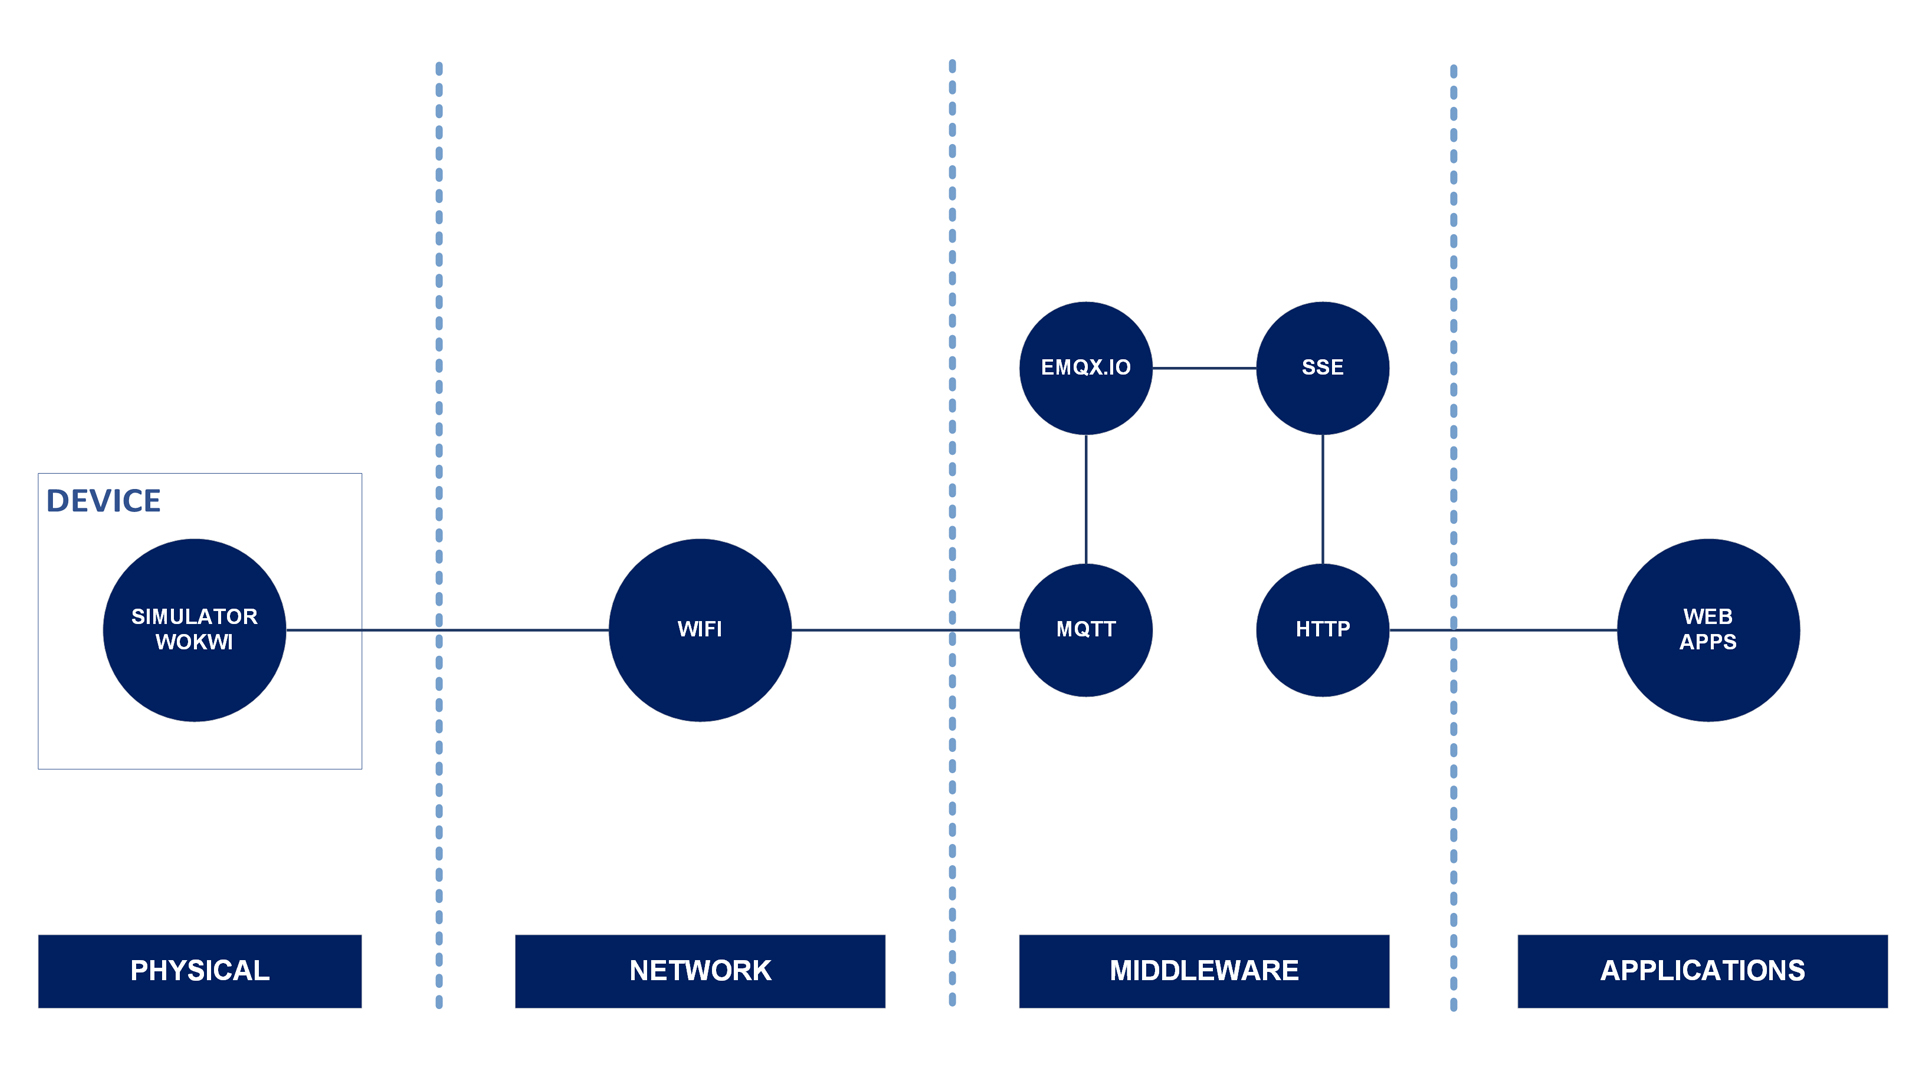
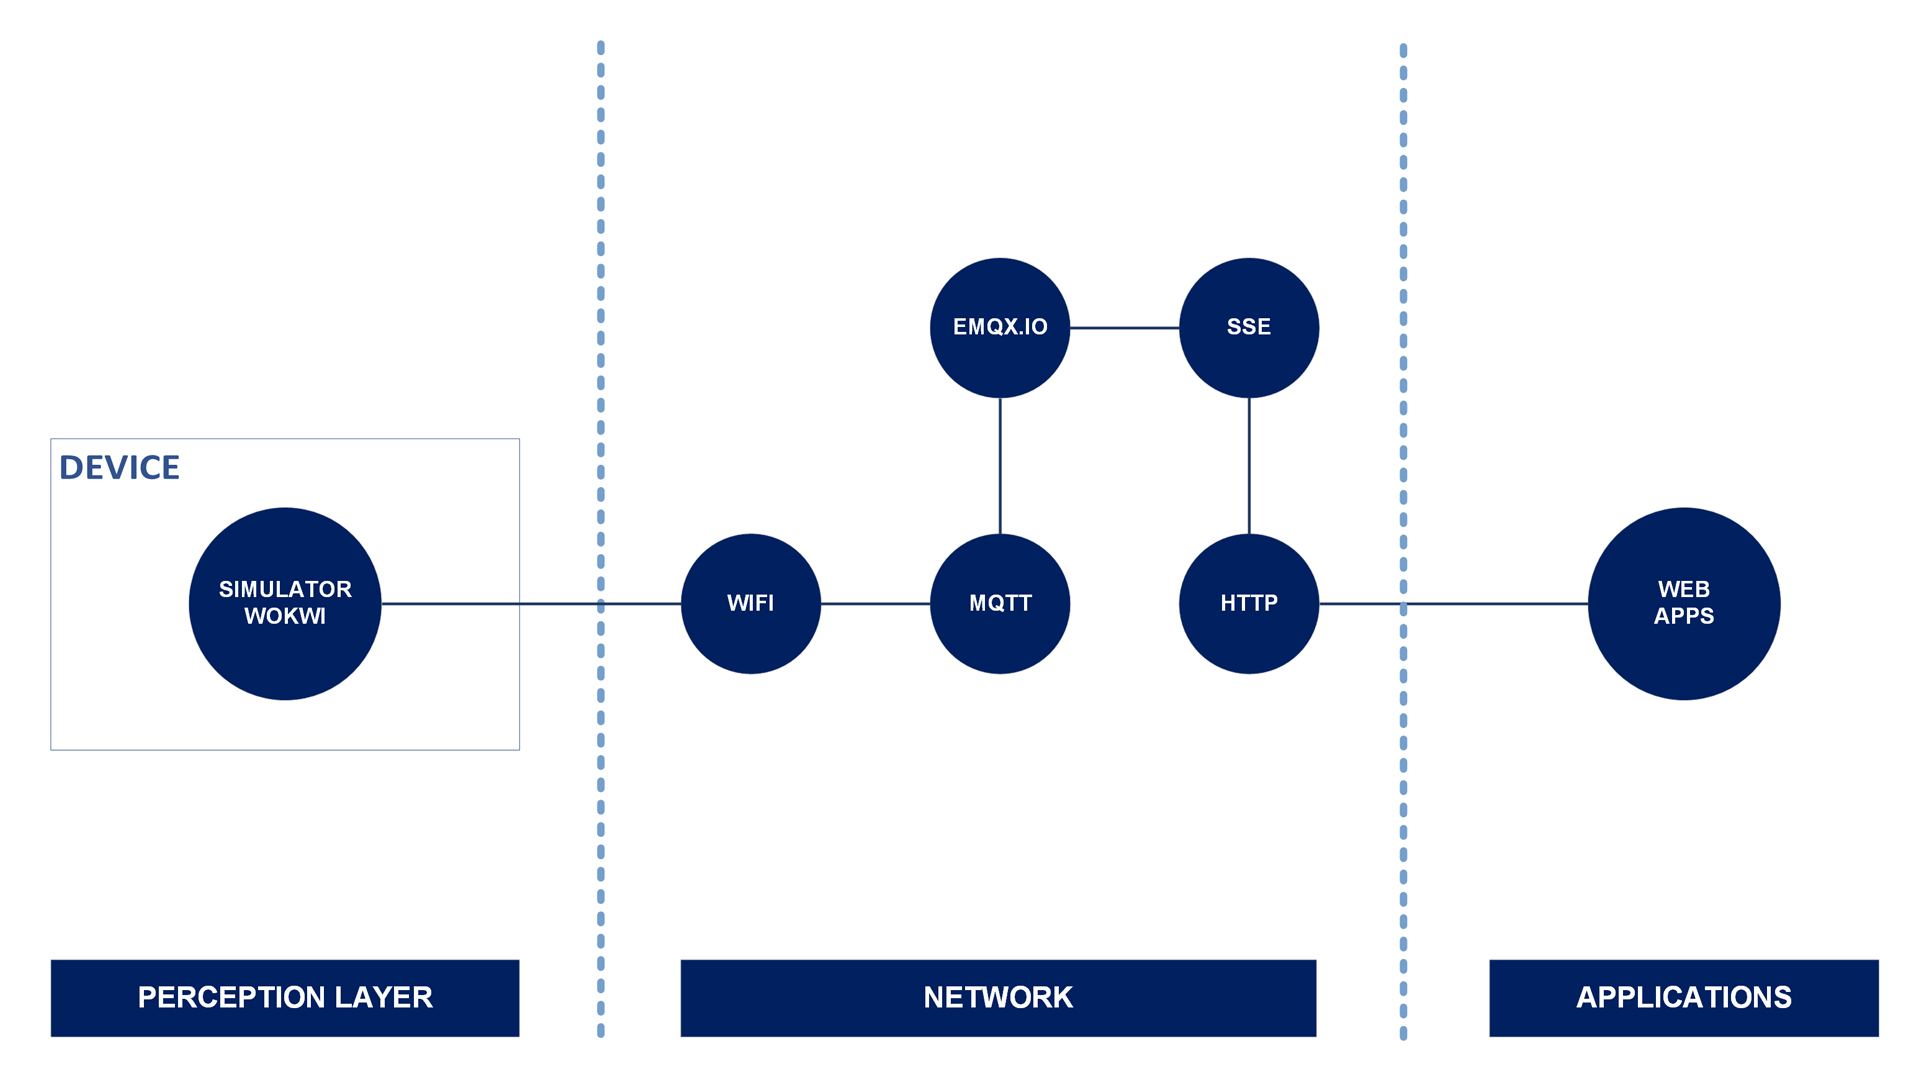
Update: 26/12/2024

diff --git a/README.md b/README.md
@@ -21,7 +21,7 @@ This project has high resource efficiency and performance, including real-time d
 | Application Support | • Wokwi<br>• MQTTX<br>• Node.js |
 | IoT Platform | EMQX Broker |
 | Communications Protocol | • Hypertext Transfer Protocol (HTTP)<br>• Message Queuing Telemetry Transport (MQTT) |
-| IoT Architecture | 4 Layer |
+| IoT Architecture | 3 Layer |
 | Framework | • Bootstrap 5<br>• Express.js<br>• Font-Awesome 6 |
 | Libraries | MQTT.js |
 

diff --git a/BACA.md b/BACA.md
@@ -21,7 +21,7 @@ Proyek ini memiliki efisiensi sumber daya dan kinerja yang tinggi, termasuk pemr
 | Dukungan Aplikasi | • Wokwi<br>• MQTTX<br>• Node.js |
 | Platform IoT | EMQX Broker |
 | Protokol komunikasi | • Hypertext Transfer Protocol (HTTP)<br>• Message Queuing Telemetry Transport (MQTT) |
-| Arsitektur IoT | 4 Lapisan |
+| Arsitektur IoT | 3 Lapisan |
 | Kerangka Kerja | • Bootstrap 5<br>• Express.js<br>• Font-Awesome 6 |
 | Pustaka | MQTT.js |
 
